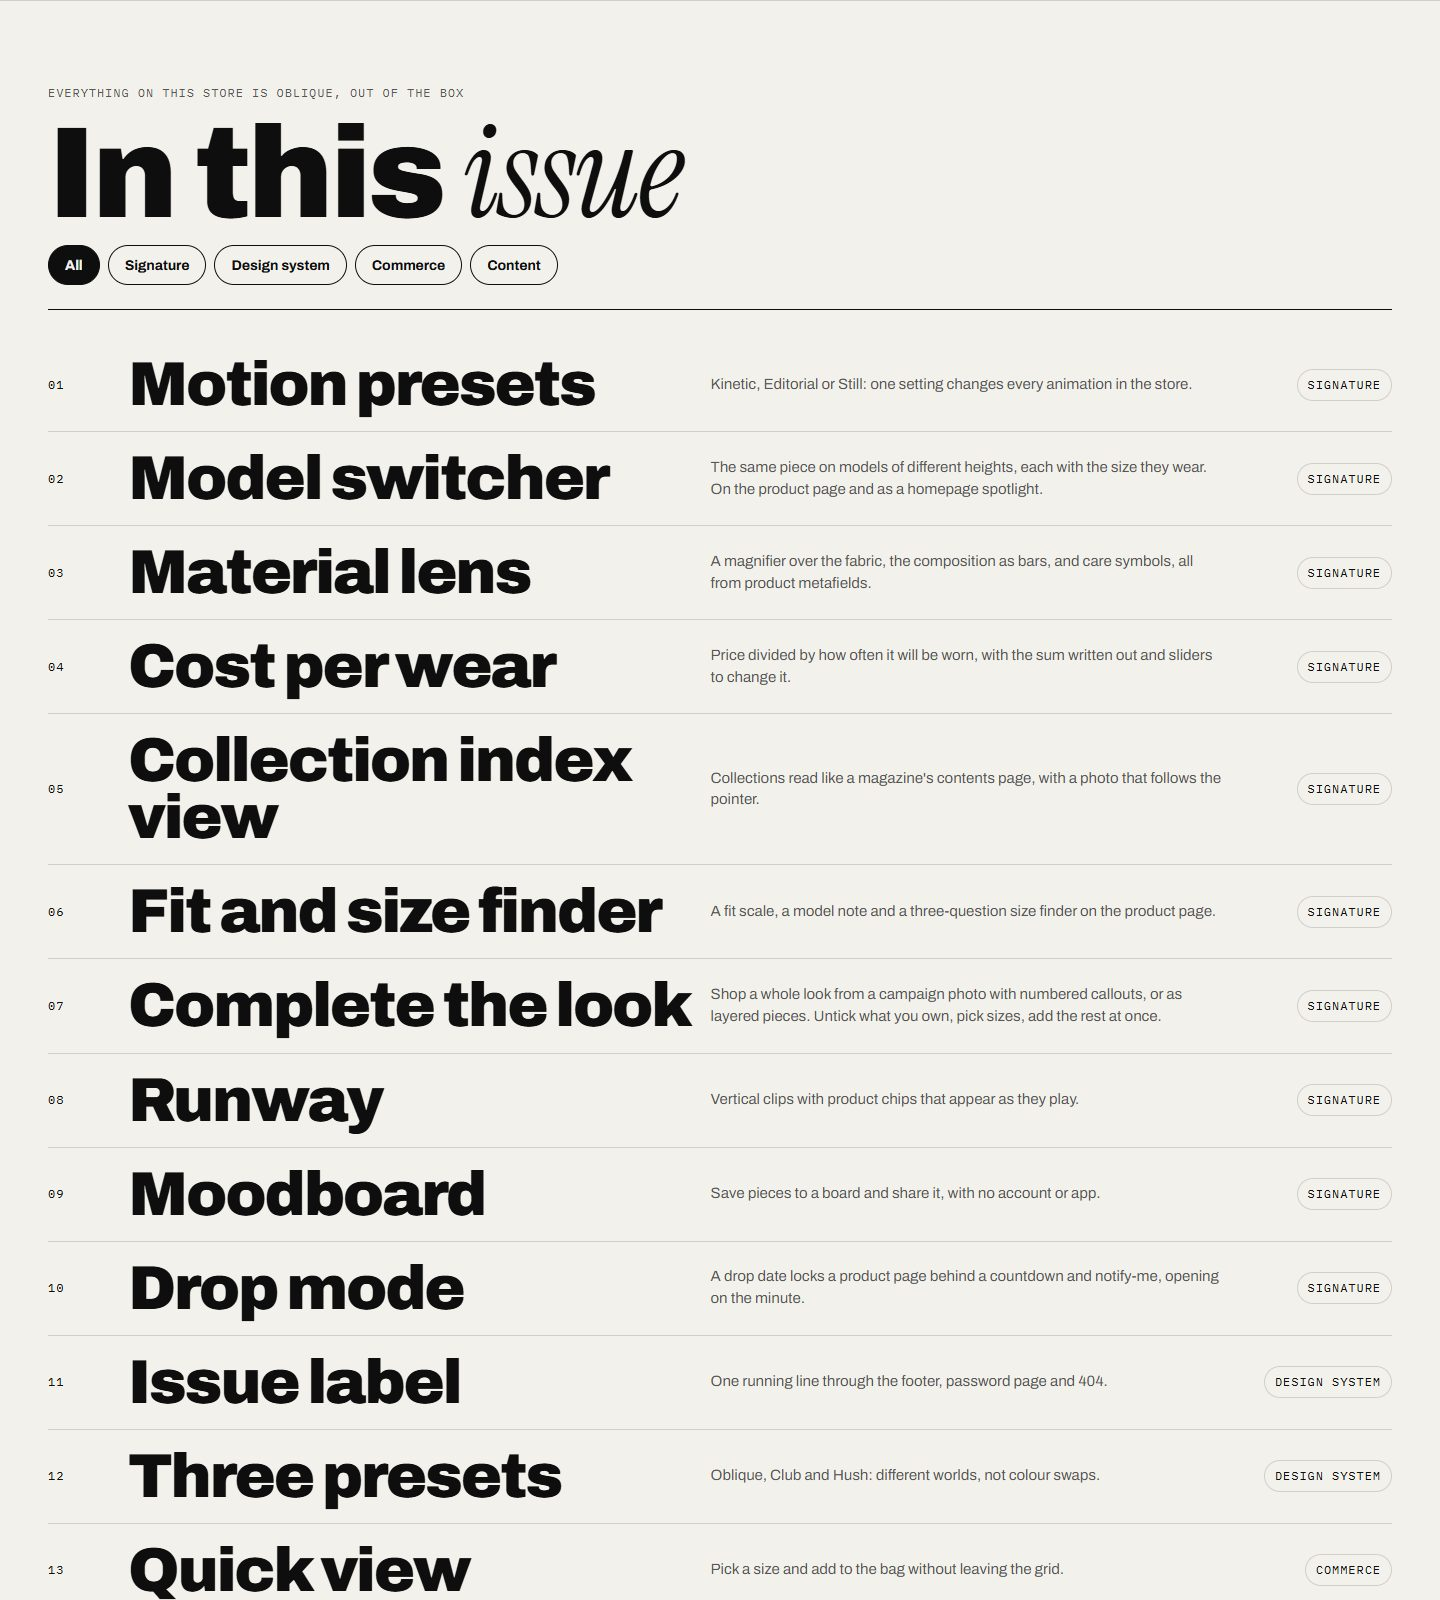
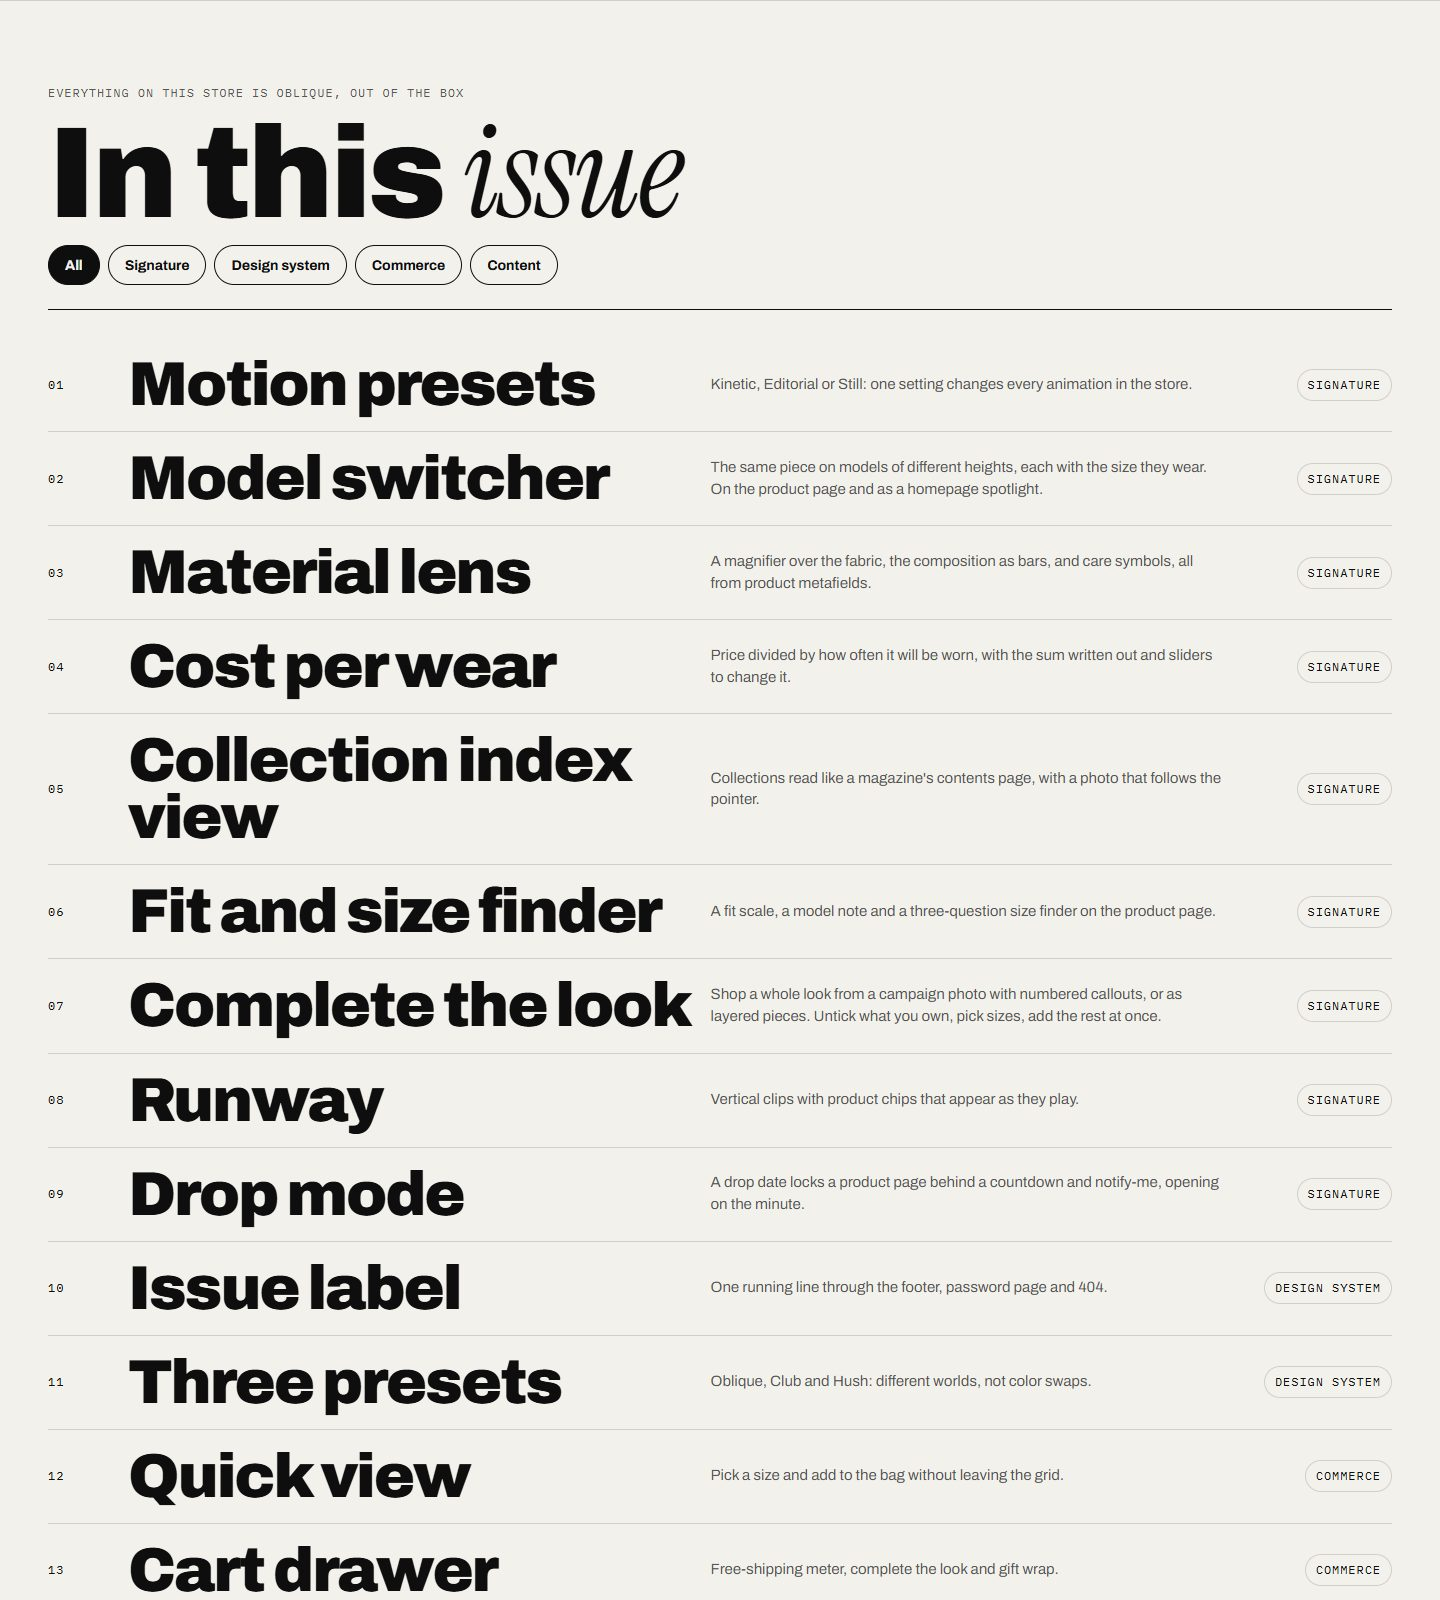
Add FAQ page, drop moodboard, refresh screenshots and schema data

diff --git a/app/faq/page.js b/app/faq/page.js
@@ -1,0 +1,141 @@
+import Link from "next/link";
+import { theme } from "@/lib/manual";
+
+export const metadata = {
+  title: "FAQ",
+  description: `Answers to common questions about the ${theme.name} Shopify theme.`,
+};
+
+/**
+ * Merchant FAQ. The Theme Store asks for an FAQ and a clear support policy in
+ * the documentation; keep every answer consistent with the setting labels in
+ * the theme editor.
+ */
+const groups = [
+  {
+    title: "Getting started",
+    items: [
+      {
+        q: "Which preset should I start with?",
+        a: "Oblique is the editorial default: off-white paper, black type and a cobalt accent. Club is loud, in cobalt and acid green, built for drops and streetwear. Hush is quiet, with soft whites, contact-sheet product cards and the Still motion preset. You can switch presets later in the theme editor's Theme settings; this changes colors, fonts and other style settings, not your sections.",
+      },
+      {
+        q: "Why doesn't my store look like the demo after installing?",
+        a: "Presets bring the layout, colors and fonts, but not the demo photos, products or pages. Add your own images in each section, and pick your collections and products in the sections that use them. Until then, sections show placeholders so you can see the layout.",
+      },
+      {
+        q: "How do I change the store name in the header and footer?",
+        a: "The large wordmark uses your store name from Settings > General in the Shopify admin. To show a different word in the footer, fill in Wordmark text in the Footer section. To use an image instead, upload a logo in the Header section.",
+      },
+    ],
+  },
+  {
+    title: "Design and motion",
+    items: [
+      {
+        q: "How do I turn the animation down or off?",
+        a: "Open Theme settings > Motion and pick a motion preset: Kinetic, Editorial or Still. Still removes all movement. Shoppers who have asked their device for reduced motion always get Still, and the pause motion button lets anyone stop looping motion.",
+      },
+      {
+        q: "How do I change colors across the whole store?",
+        a: "Edit the color schemes in Theme settings > Color schemes. Every section picks one of these schemes, so a change there updates every section that uses it.",
+      },
+      {
+        q: "Why are my product photos black and white?",
+        a: "Theme settings > Images > Photo treatment is set to Monochrome. Color returns on hover, and product pages and the cart always show true color. Choose None to show color everywhere.",
+      },
+    ],
+  },
+  {
+    title: "Products and cart",
+    items: [
+      {
+        q: "Why don't filters show on my collection pages?",
+        a: "Filters come from Shopify's Search & Discovery app, which is free. Install it, then add filters such as Availability, Price, Size and Color. The theme shows them on collection and search pages automatically.",
+      },
+      {
+        q: "How do I show a countdown for an upcoming drop?",
+        a: "Create a date or date and time product metafield, for example custom.drop_date, and enter its name in Theme settings > Product cards > Drop date metafield. Products with a future date show a countdown and can't be bought until then.",
+      },
+      {
+        q: "How do I set up free shipping progress and gift wrap?",
+        a: "Open Theme settings > Cart. Enter the order total for free shipping to show a progress meter in the cart page and drawer, and pick a product to offer as gift wrap. Leave the threshold at 0 to hide the meter.",
+      },
+      {
+        q: "Why don't I see the Follow on Shop button or Shop Pay Installments?",
+        a: "Both come from Shop Pay. Turn on Shop Pay in Settings > Payments in the Shopify admin, and they appear on your storefront.",
+      },
+    ],
+  },
+  {
+    title: "Updates and support",
+    items: [
+      {
+        q: "How do I update the theme?",
+        a: "When a new version is out, Shopify shows an update notice in Online Store > Themes. Updating adds a new copy of the theme with your settings and content, so you can check it before publishing. See Latest updates for what changed.",
+      },
+      {
+        q: "Can I edit the theme code?",
+        a: "You can, but duplicate your theme first, and keep the copy as a backup. Code changes aren't covered by support and are lost when you update. For custom work, we recommend hiring a Shopify Partner.",
+      },
+      {
+        q: "What does support cover?",
+        a: `We fix bugs in ${theme.name} and answer questions about its features and settings, at no cost. Support doesn't cover custom code, third-party apps or design work. Contact us through the support form and include your store URL.`,
+      },
+    ],
+  },
+];
+
+export default function FaqPage() {
+  return (
+    <article>
+      <header>
+        <p className="label text-muted">{theme.name}</p>
+        <h1 className="mt-3 text-4xl font-black leading-[0.95] tracking-[-0.03em] sm:text-5xl">
+          Frequently asked <span className="accent">questions</span>
+        </h1>
+        <p className="mt-5 max-w-prose text-[16px] leading-relaxed text-muted-strong">
+          Quick answers to what merchants ask most. If your question isn't here,{" "}
+          {theme.supportUrl ? (
+            <a href={theme.supportUrl} className="font-semibold text-foreground underline underline-offset-4">
+              contact support
+            </a>
+          ) : (
+            "contact support"
+          )}
+          .
+        </p>
+      </header>
+
+      {groups.map((group, gi) => (
+        <section key={group.title} className="mt-14">
+          <div className="flex items-baseline gap-4 border-b-[1.5px] border-foreground pb-3">
+            <span className="label text-muted tabular-nums">0{gi + 1}</span>
+            <h2 className="text-2xl font-black tracking-tight">{group.title}</h2>
+          </div>
+          <div className="mt-2 divide-y divide-line">
+            {group.items.map((item) => (
+              <details key={item.q} className="group py-4">
+                <summary className="flex cursor-pointer list-none items-center justify-between gap-6 text-[16px] font-semibold">
+                  {item.q}
+                  <span aria-hidden="true" className="text-xl text-muted transition-transform group-open:rotate-45">
+                    +
+                  </span>
+                </summary>
+                <p className="mt-3 max-w-prose text-[15px] leading-relaxed text-muted-strong">{item.a}</p>
+              </details>
+            ))}
+          </div>
+        </section>
+      ))}
+
+      <p className="mt-14 text-[15px] text-muted-strong">
+        Looking for a specific setting? Every section and theme setting has its own page, starting from the{" "}
+        <Link href="/" className="font-semibold text-foreground underline underline-offset-4">
+          manual home
+        </Link>
+        .
+      </p>
+    </article>
+  );
+}

diff --git a/app/updates/page.js b/app/updates/page.js
@@ -23,7 +23,8 @@ const releases = [
       "Product page blocks for fit, model switcher, material lens and cost per wear, plus quick view, recently viewed and a sticky add-to-bag bar.",
       "Cart drawer with free-shipping progress, gift wrap and Complete the look.",
       "Filtering and sorting on collection and search pages, predictive search in the header.",
-      "Moodboard, drop mode, pre-order labels and combined-listing links.",
+      "Drop mode, pre-order labels and combined-listing links.",
+      "Follow on Shop and social media icons in the footer.",
       "Translations for English, French, German, Italian and Spanish.",
     ],
   },

diff --git a/components/Sidebar.jsx b/components/Sidebar.jsx
@@ -85,6 +85,13 @@ export default function Sidebar() {
         </span>
         Latest updates
       </Link>
+      <Link
+        href="/faq"
+        aria-current={pathname === "/faq" ? "page" : undefined}
+        className="-mt-3 mb-6 flex items-center rounded-lg border border-line px-4 py-3 text-sm font-medium transition-colors hover:bg-tint"
+      >
+        Frequently asked questions
+      </Link>
 
       {nav.map((group) => (
         <Group
